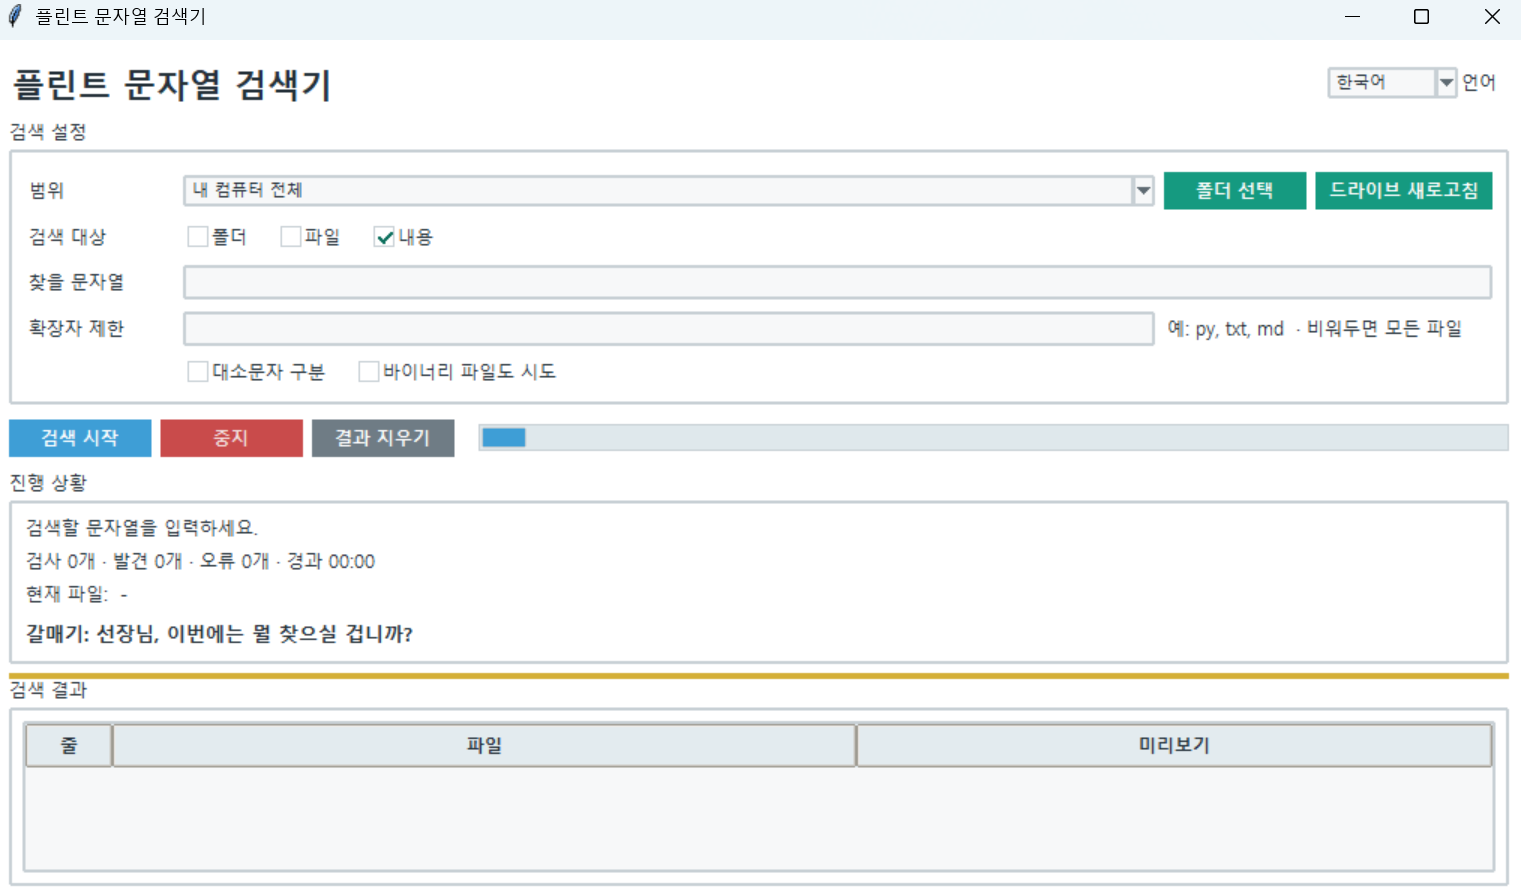
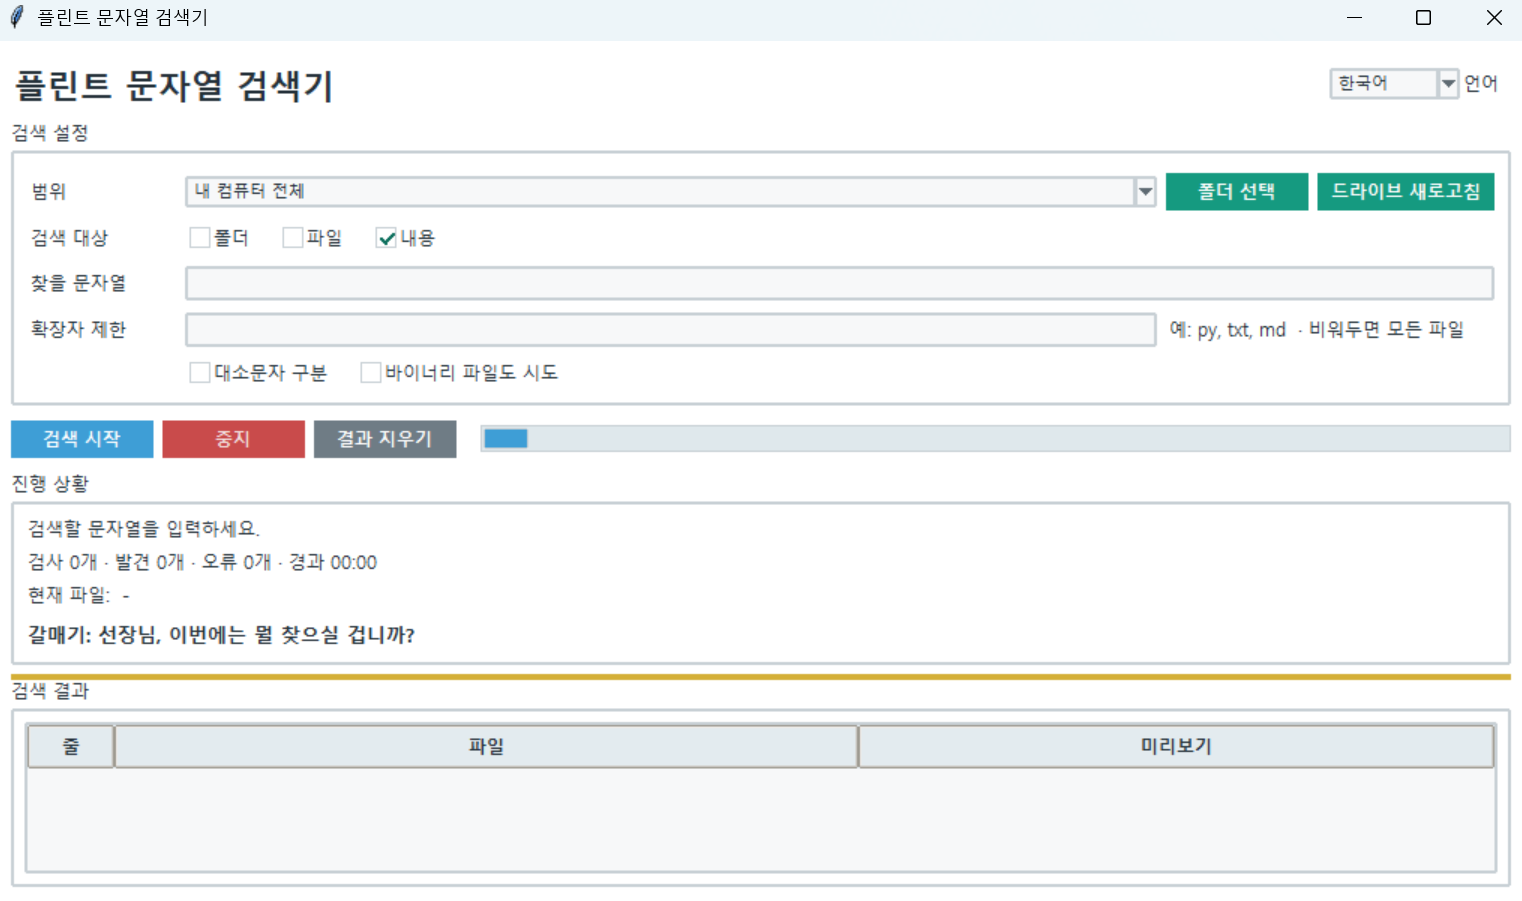
Update badamail: 8 files

diff --git a/toolbox/fsf.html b/toolbox/fsf.html
@@ -1,0 +1,61 @@
+<!doctype html>
+<html lang="ko">
+<head>
+  <meta charset="utf-8">
+  <meta name="viewport" content="width=device-width, initial-scale=1">
+  <title>플린트 스트링 파이던 | 플린트의 공구함</title>
+  <meta name="description" content="여러 드라이브나 폴더에서 특정 문자열이 포함된 파일을 찾는 Windows용 GUI 검색 도구입니다.">
+  <meta name="robots" content="index, follow">
+  <meta property="og:site_name" content="Blackship">
+  <meta property="og:title" content="플린트 스트링 파이던 | 플린트의 공구함">
+  <meta property="og:description" content="여러 드라이브나 폴더에서 특정 문자열이 포함된 파일을 찾는 Windows용 GUI 검색 도구입니다.">
+  <meta property="og:type" content="website">
+  <link rel="alternate" hreflang="ko" href="https://blackship.kr/toolbox/fsf.html">
+  <link rel="alternate" hreflang="en" href="https://blackship.kr/en/toolbox/fsf.html">
+  <link rel="alternate" hreflang="x-default" href="https://blackship.kr/toolbox/fsf.html">
+  <link rel="icon" href="../favicon.ico" type="image/x-icon">
+  <link rel="stylesheet" href="../style.css">
+</head>
+<body>
+  <header class="site-header">
+    <a class="logo" href="../index.html">Blackship</a>
+    <nav class="nav">
+
+      <a href="../index.html">홈</a>
+      <a href="../hidden.html">💎 숨은 보물</a>
+      <a href="../value.html">💰 가성비 보물</a>
+      <a href="../popular.html">🔥 인기 보물</a>
+      <a href="../random.html">🎲 랜덤 보물</a>
+      <a href="../toolbox.html">🧰 공구함</a>
+      <a href="../badamail.html">바다메일</a>
+    </nav>
+  </header>
+
+  <main>
+    
+        <article class="detail toolbox-detail">
+          <div class="toolbox-detail-media">
+            <img src="images/fsf.png" alt="플린트 스트링 파이던" loading="lazy">
+          </div>
+          <div class="toolbox-detail-content">
+            <h1>플린트 스트링 파이던</h1>
+            <p class="toolbox-detail-version">버전: 1.0.0</p>
+            <div class="toolbox-detail-description">
+              <h2>Flint String Finder</h2><p>여러 드라이브나 폴더에서 특정 문자열이 포함된 파일을 찾는 Windows용 GUI 검색 도구입니다.</p><h3>사용 방법</h3><ol><li>검색 범위를 선택합니다. (내 컴퓨터 전체, 드라이브, 폴더)</li><li><code>찾을 문자열</code>을 입력합니다.</li><li>필요한 경우 확장자 제한(<code>py, md, txt</code> 등)과 대소문자 구분 옵션을 설정합니다.</li><li><code>검색 시작</code>을 누릅니다.</li><li>결과를 더블클릭하면 해당 파일을 바로 열 수 있습니다.</li></ol><h3>주요 기능</h3><ul><li>내 컴퓨터 전체 또는 특정 드라이브 검색</li><li>특정 폴더 검색</li><li>파일 내용 문자열 검색</li><li>현재 검사 파일, 검사 수, 발견 수, 오류 수 표시</li><li>경과 시간 및 진행 상태 표시</li><li>검색 중지</li><li>결과 더블클릭으로 파일 열기</li><li>긴 검색 중 플린트 선장 &amp; 갈매기 진행 멘트</li></ul><p>실행:</p><pre><code class="language-bash">python finder.py</code></pre><blockquote><p><code>참고:</code> 실행 파일(EXE) 버전을 사용하는 경우에는 python 명령을 실행할 필요가 없습니다.</p></blockquote>
+            </div>
+            <div class="toolbox-detail-actions">
+              <a class="buy-button" href="https://github.com/flinthawke/toolbox/releases/download/fsf-v1.0.0/fsf.1.0.0.portable.zip">다운로드</a> <a class="badamail-link" href="https://github.com/flinthawke/toolbox/releases/tag/fsf-v1.0.0" target="_blank" rel="noopener">GitHub에서 소스 보기</a>
+            </div>
+            <p class="toolbox-detail-back"><a class="badamail-link" href="../toolbox.html">공구함으로 돌아가기</a></p>
+          </div>
+        </article>
+        
+  </main>
+
+  <footer class="site-footer">
+    <p>본 프로그램은 있는 그대로(AS IS) 제공됩니다. 사용으로 인해 발생하는 데이터 손실이나 기타 문제에 대해서는 책임을 지지 않습니다.</p>
+    <p>중요한 파일은 반드시 백업한 후 사용하시기 바랍니다.</p>
+  </footer>
+  <img class="visitor-counter-tracker" src="https://hits.sh/blackship.kr.svg?label=visitors&amp;color=000000&amp;labelColor=000000" alt="" width="1" height="1" aria-hidden="true">
+</body>
+</html>

diff --git a/en/toolbox/fsf.html b/en/toolbox/fsf.html
@@ -1,0 +1,61 @@
+<!doctype html>
+<html lang="en">
+<head>
+  <meta charset="utf-8">
+  <meta name="viewport" content="width=device-width, initial-scale=1">
+  <title>Flint String Finder | Flint&#x27;s Toolbox</title>
+  <meta name="description" content="A Windows GUI search tool for finding files that contain a specific string across multiple drives or folders.">
+  <meta name="robots" content="index, follow">
+  <meta property="og:site_name" content="Blackship">
+  <meta property="og:title" content="Flint String Finder | Flint&#x27;s Toolbox">
+  <meta property="og:description" content="A Windows GUI search tool for finding files that contain a specific string across multiple drives or folders.">
+  <meta property="og:type" content="website">
+  <link rel="alternate" hreflang="ko" href="https://blackship.kr/toolbox/fsf.html">
+  <link rel="alternate" hreflang="en" href="https://blackship.kr/en/toolbox/fsf.html">
+  <link rel="alternate" hreflang="x-default" href="https://blackship.kr/toolbox/fsf.html">
+  <link rel="icon" href="../favicon.ico" type="image/x-icon">
+  <link rel="stylesheet" href="../style.css">
+</head>
+<body>
+  <header class="site-header">
+    <a class="logo" href="../index.html">Blackship</a>
+    <nav class="nav">
+
+      <a href="../index.html">Home</a>
+      <a href="../hidden.html">💎 Hidden Treasures</a>
+      <a href="../value.html">💰 Value Treasures</a>
+      <a href="../popular.html">🔥 Popular Treasures</a>
+      <a href="../random.html">🎲 Random Treasure</a>
+      <a href="../toolbox.html">🧰 Toolbox</a>
+      <a href="../badamail.html">Sea Mail</a>
+    </nav>
+  </header>
+
+  <main>
+    
+        <article class="detail toolbox-detail">
+          <div class="toolbox-detail-media">
+            <img src="images/fsf_en.png" alt="Flint String Finder" loading="lazy">
+          </div>
+          <div class="toolbox-detail-content">
+            <h1>Flint String Finder</h1>
+            <p class="toolbox-detail-version">Version: 1.0.0</p>
+            <div class="toolbox-detail-description">
+              <h2>Flint String Finder</h2><p>A Windows GUI search tool for finding files that contain a specific string across multiple drives or folders.</p><h3>How to Use</h3><ol><li>Select the search scope. (Entire Computer, Drive, or Folder)</li><li>Enter the text in <code>String to Find</code>.</li><li>If needed, set file extension filters (<code>py, md, txt</code>, etc.) and the case-sensitive option.</li><li>Click <code>Start Search</code>.</li><li>Double-click a result to open the corresponding file directly.</li></ol><h3>Features</h3><ul><li>Search the entire computer or specific drives</li><li>Search within a specific folder</li><li>Search for strings inside file contents</li><li>Displays the current file being scanned, files scanned, matches found, and errors</li><li>Displays elapsed time and search progress</li><li>Stop an ongoing search</li><li>Open files by double-clicking search results</li><li>Flint Captain &amp; Seagull progress messages during long searches</li></ul><p>Run:</p><pre><code class="language-bash">python finder.py</code></pre><blockquote><p><strong>Note:</strong> If you are using the executable (EXE) version, you do not need to run any Python commands.</p></blockquote>
+            </div>
+            <div class="toolbox-detail-actions">
+              <a class="buy-button" href="https://github.com/flinthawke/toolbox/releases/download/fsf-v1.0.0/fsf.1.0.0.portable.zip">Download</a> <a class="badamail-link" href="https://github.com/flinthawke/toolbox/releases/tag/fsf-v1.0.0" target="_blank" rel="noopener">View source on GitHub</a>
+            </div>
+            <p class="toolbox-detail-back"><a class="badamail-link" href="../toolbox.html">Back to Toolbox</a></p>
+          </div>
+        </article>
+        
+  </main>
+
+  <footer class="site-footer">
+    <p>This program is provided AS IS, without any warranty. The author is not responsible for data loss or any other issues resulting from its use.</p>
+    <p>Please back up important files before using this program.</p>
+  </footer>
+  <img class="visitor-counter-tracker" src="https://hits.sh/blackship.kr.svg?label=visitors&amp;color=000000&amp;labelColor=000000" alt="" width="1" height="1" aria-hidden="true">
+</body>
+</html>

diff --git a/toolbox.html b/toolbox.html
@@ -34,7 +34,21 @@
   </header>
 
   <main>
-    <h1>플린트의 공구함</h1><p>플린트호크가 항해에 쓸 만한 도구를 모아둔 공구함입니다.<br>원자력포, 반중력 순항장치, 대왕문어 퇴치기 등도 있지만 공개하지 않습니다.</p><div class="update-notice"><strong>Windows 실행 안내</strong><br>Windows에서 다운로드한 실행 파일이 보안 기능에 의해 차단될 수 있습니다.<br>실행되지 않는 경우 파일을 마우스 오른쪽 버튼으로 클릭한 후 <strong>속성 → 차단 해제 → 적용</strong>을 선택하고 다시 실행해 주세요.<br>Flint 도구는 별도의 코드 서명 인증서를 사용하지 않으므로 <strong>알 수 없는 게시자</strong>로 표시될 수 있습니다.</div><p>아직 공구함에 등록된 도구가 없습니다.</p>
+    <h1>플린트의 공구함</h1><p>플린트호크가 항해에 쓸 만한 도구를 모아둔 공구함입니다.<br>원자력포, 반중력 순항장치, 대왕문어 퇴치기 등도 있지만 공개하지 않습니다.</p><div class="update-notice"><strong>Windows 실행 안내</strong><br>Windows에서 다운로드한 실행 파일이 보안 기능에 의해 차단될 수 있습니다.<br>실행되지 않는 경우 파일을 마우스 오른쪽 버튼으로 클릭한 후 <strong>속성 → 차단 해제 → 적용</strong>을 선택하고 다시 실행해 주세요.<br>Flint 도구는 별도의 코드 서명 인증서를 사용하지 않으므로 <strong>알 수 없는 게시자</strong>로 표시될 수 있습니다.</div><section class="grid">
+        <article class="product-card card toolbox-card">
+          <a class="toolbox-card-media" href="toolbox/fsf.html">
+            <img src="toolbox/images/fsf.png" alt="플린트 스트링 파이던" loading="lazy">
+          </a>
+          <div class="product-body card-body toolbox-card-body">
+            <h2><a href="toolbox/fsf.html">플린트 스트링 파이던</a></h2>
+            <p>여러 드라이브나 폴더에서 특정 문자열이 포함된 파일을 찾는 Windows용 GUI 검색 도구입니다.</p>
+            <div class="toolbox-card-footer">
+              <p class="toolbox-card-version">버전: 1.0.0</p>
+              <a class="buy-button" href="toolbox/fsf.html">설명 및 설치 방법</a>
+            </div>
+          </div>
+        </article>
+        </section>
   </main>
 
   <footer class="site-footer">

diff --git a/en/toolbox.html b/en/toolbox.html
@@ -34,7 +34,21 @@ It also contains a nuclear cannon, an anti-gravity cruise system, and a giant sq
   </header>
 
   <main>
-    <h1>Flint&#x27;s Toolbox</h1><p>Flinthawk&#x27;s toolbox is stocked with useful gear for the voyage.<br>It also contains a nuclear cannon, an anti-gravity cruise system, and a giant squid repeller, but those are not available to the public.</p><div class="update-notice"><strong>Windows Run Notice</strong><br>Windows security features may block executable files downloaded from the internet.<br>If an application does not run, right-click the file and select <strong>Properties → Unblock → Apply</strong>, then try again.<br>Because Flint tools are not digitally signed with a code-signing certificate, Windows may display <strong>Unknown publisher</strong>.</div><p>No tools have been loaded yet.</p>
+    <h1>Flint&#x27;s Toolbox</h1><p>Flinthawk&#x27;s toolbox is stocked with useful gear for the voyage.<br>It also contains a nuclear cannon, an anti-gravity cruise system, and a giant squid repeller, but those are not available to the public.</p><div class="update-notice"><strong>Windows Run Notice</strong><br>Windows security features may block executable files downloaded from the internet.<br>If an application does not run, right-click the file and select <strong>Properties → Unblock → Apply</strong>, then try again.<br>Because Flint tools are not digitally signed with a code-signing certificate, Windows may display <strong>Unknown publisher</strong>.</div><section class="grid">
+        <article class="product-card card toolbox-card">
+          <a class="toolbox-card-media" href="toolbox/fsf.html">
+            <img src="toolbox/images/fsf_en.png" alt="Flint String Finder" loading="lazy">
+          </a>
+          <div class="product-body card-body toolbox-card-body">
+            <h2><a href="toolbox/fsf.html">Flint String Finder</a></h2>
+            <p>A Windows GUI search tool for finding files that contain a specific string across multiple drives or folders.</p>
+            <div class="toolbox-card-footer">
+              <p class="toolbox-card-version">Version: 1.0.0</p>
+              <a class="buy-button" href="toolbox/fsf.html">View details</a>
+            </div>
+          </div>
+        </article>
+        </section>
   </main>
 
   <footer class="site-footer">
